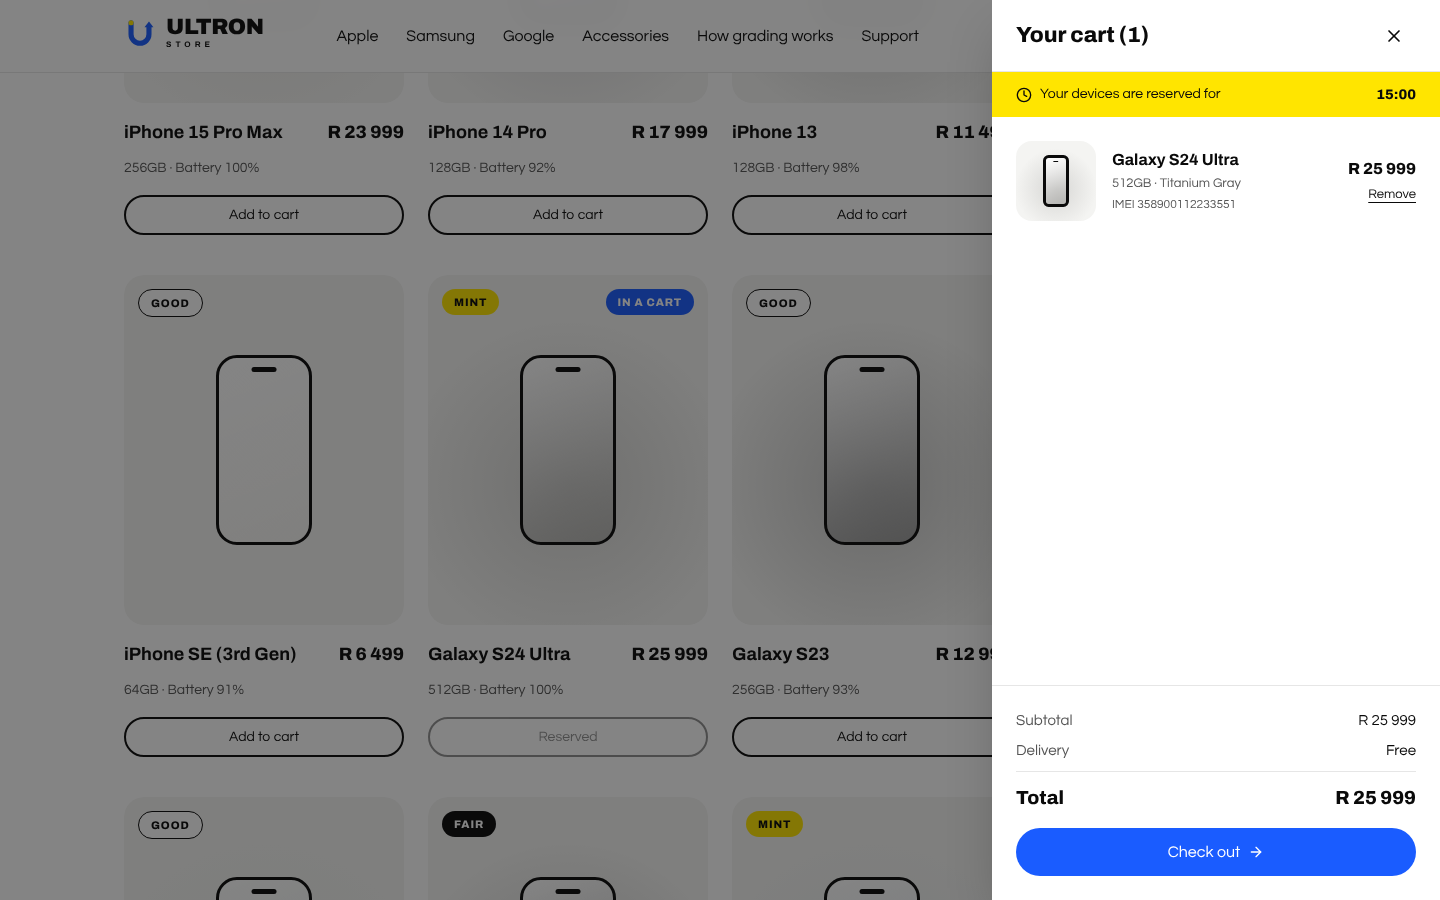
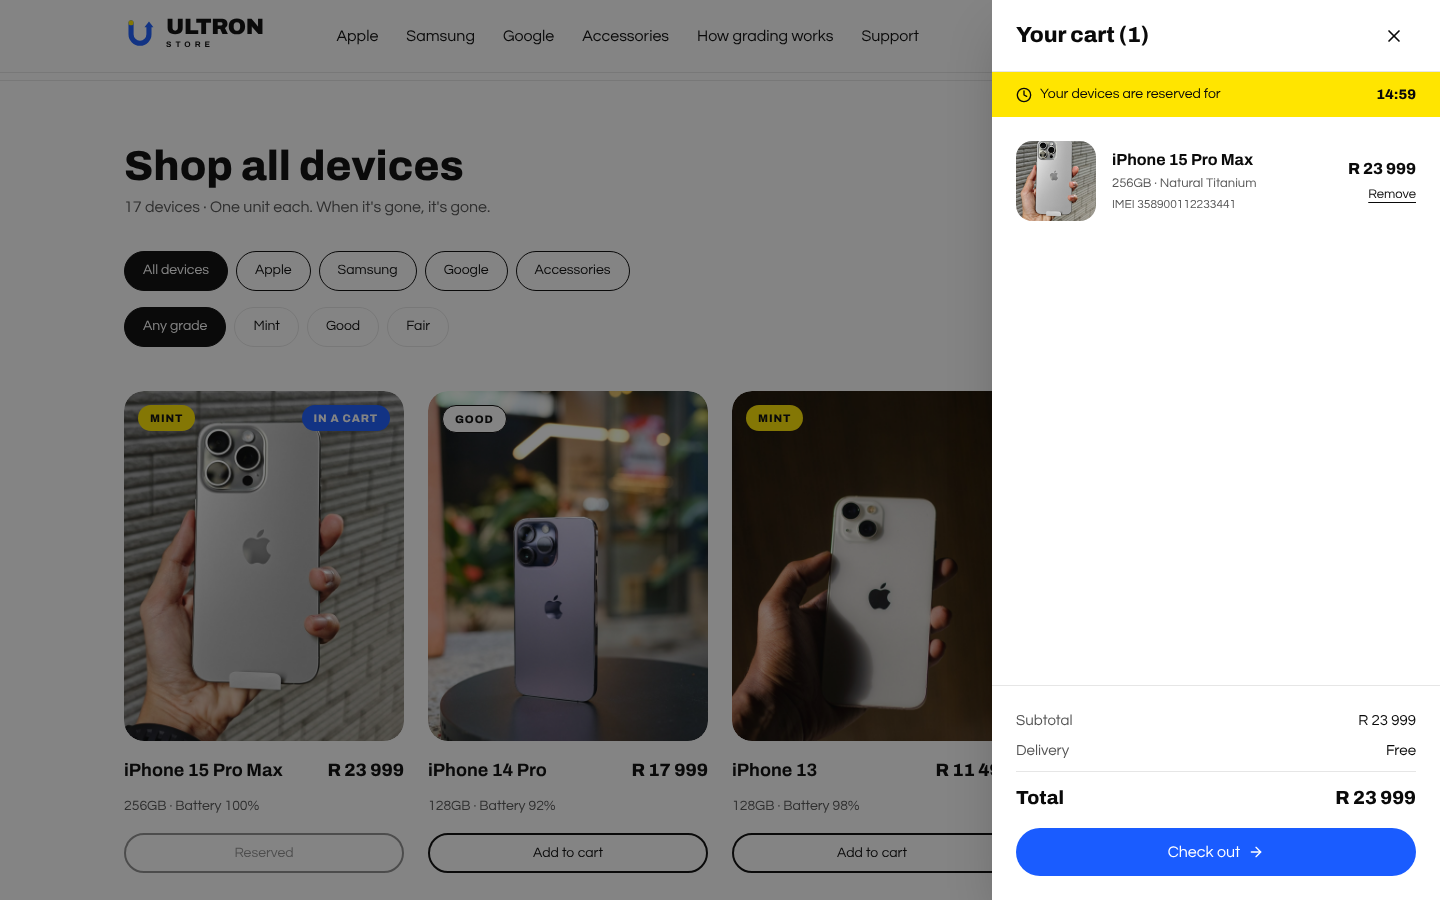
Add real product photos for all 17 catalogue devices
Stock photos of each model, cropped to 1200x1500 (4:5): 16 from Unsplash
(Unsplash License) and the iPhone SE from Flickr (CC BY 2.0). Sources and
licences are in frontend/public/products/CREDITS.md.

ProductImage now fills its frame with object-cover, the hero photo is
square so the phone isn't cut off, and the product page caption no longer
claims the photo is the exact unit. README screenshots refreshed.

Claude-Session: https://claude.ai/code/session_01Kf4iu9fyBzkdyYXkMcwkMD

diff --git a/frontend/src/components/home/HomeSections.tsx b/frontend/src/components/home/HomeSections.tsx
@@ -35,7 +35,8 @@ export const Hero: React.FC<{ featured?: StoreProduct; onView: (p: StoreProduct)
         >
           <ProductImage
             product={featured}
-            className="aspect-[5/4] sm:aspect-[4/3] rounded-[var(--radius-panel)]"
+            className="aspect-square rounded-[var(--radius-panel)]"
+            imgClassName="w-full h-full object-cover object-[50%_35%]"
             placeholderSize="w-[26%] max-w-[150px]"
           />
           <div className="absolute left-4 right-4 bottom-4 sm:left-auto sm:bottom-auto sm:right-6 sm:top-6 bg-white border-2 border-ink rounded-[18px] px-5 py-4 flex flex-col gap-1 shadow-[6px_6px_0_#0a0a0a] transition-transform group-hover:-translate-y-0.5">
@@ -114,7 +115,7 @@ export const GradeGuide: React.FC<{ onPick: (grade: StoreProduct['conditionGrade
 
 const REASONS = [
   { icon: BadgeCheck, title: 'IMEI checked', text: 'Every serial is checked against loss, theft and finance-lock registries before it is listed.' },
-  { icon: Fingerprint, title: 'One unit, one listing', text: 'Each device is tracked by serial and IMEI, so the photos and grade are for that exact unit.' },
+  { icon: Fingerprint, title: 'One unit, one listing', text: 'Each device is tracked by serial and IMEI, so the grade and battery report are for that exact unit.' },
   { icon: BatteryCharging, title: 'Battery health shown', text: 'Real battery health and cycle count on every listing.' },
   { icon: ShieldCheck, title: 'Up to 12-month warranty', text: 'Cover on every certified device.' },
   { icon: RotateCcw, title: '7-day returns', text: 'Not right? Send it back within 7 days.' },

diff --git a/frontend/src/components/ProductPDP.tsx b/frontend/src/components/ProductPDP.tsx
@@ -84,7 +84,7 @@ export const ProductPDP: React.FC<ProductPDPProps> = ({ product, onClose, onAddT
             <ProductImage product={product} className="aspect-square rounded-[var(--radius-panel)]" placeholderSize="w-[26%] max-w-[160px]" />
             <span className={`badge absolute left-5 top-5 ${grade.badge}`}>{grade.label}</span>
           </div>
-          <p className="mt-3 text-[13px] text-muted text-center">Photos show this exact unit as inspected, not a stock image.</p>
+          <p className="mt-3 text-[13px] text-muted text-center">Photo shows this model. Grade, battery and checks above are for this exact unit.</p>
         </div>
 
         <div className="flex flex-col gap-8">

diff --git a/frontend/src/components/ProductImage.tsx b/frontend/src/components/ProductImage.tsx
@@ -11,14 +11,14 @@ interface ProductImageProps {
 }
 
 /**
- * Shows the product photo, or a tidy tinted placeholder when the photo is missing
- * (the catalogue photos in public/products are not committed yet).
+ * Shows the product photo, cropped to fill its frame, or a tinted phone outline
+ * when the photo is missing or fails to load.
  */
 export const ProductImage: React.FC<ProductImageProps> = ({
   product,
   placeholderSize = 'w-[34%] max-w-[120px]',
   className = '',
-  imgClassName = 'w-[78%] h-[78%] object-contain',
+  imgClassName = 'w-full h-full object-cover',
   src,
 }) => {
   const [failed, setFailed] = useState(false);

diff --git a/frontend/public/products/CREDITS.md b/frontend/public/products/CREDITS.md
@@ -1,0 +1,27 @@
+# Product photo credits
+
+These are stock photos of each model, not photos of the exact unit for sale. Replace a file with a photo of the real unit when it's listed, keeping the same filename.
+
+All photos were cropped to 1200 x 1500 (4:5).
+
+| File | Source | Licence |
+|---|---|---|
+| `iphone-15-pro.jpg` | [Unsplash](https://unsplash.com/photos/a-person-holding-an-iphone-in-front-of-a-brick-wall-AtYWWis5ZDM) | Unsplash License |
+| `iphone-14-pro.jpg` | [Unsplash](https://unsplash.com/photos/a-close-up-of-a-cell-phone-on-a-table-PAUpwa_llTE) | Unsplash License |
+| `iphone-13.jpg` | [Unsplash](https://unsplash.com/photos/a-person-holding-an-iphone-in-their-hand-bS54zKd-4zQ) | Unsplash License |
+| `iphone-12.jpg` | [Unsplash](https://unsplash.com/photos/a-white-cell-phone-YDXe4h5vTdA) | Unsplash License |
+| `iphone-se.jpg` | ["Some Rumors About iPhone SE 2" by chetlandrum on Flickr](https://www.flickr.com/photos/185260119@N06/48979724096) | [CC BY 2.0](https://creativecommons.org/licenses/by/2.0/), cropped and padded |
+| `galaxy-s24-ultra.jpg` | [Unsplash](https://unsplash.com/photos/a-person-holding-a-silver-cell-phone-in-their-hand-aVsbUg8UPvg) | Unsplash License |
+| `galaxy-s23.jpg` | [Unsplash](https://unsplash.com/photos/a-white-cell-phone-sitting-on-top-of-a-table-Eda49vVHnp0) | Unsplash License |
+| `galaxy-z-fold-5.jpg` | [Unsplash](https://unsplash.com/photos/a-cell-phone-sitting-on-top-of-a-table-next-to-a-lamp-y0xA9Rv6oow) | Unsplash License |
+| `galaxy-z-flip-5.jpg` | [Unsplash](https://unsplash.com/photos/a-cell-phone-sitting-on-top-of-a-table-next-to-a-potted-plant-jJAFznI3MG0) | Unsplash License |
+| `galaxy-a54.jpg` | [Unsplash](https://unsplash.com/photos/a-white-cell-phone-_dFR9Of4R0Y) | Unsplash License |
+| `pixel-8-pro.jpg` | [Unsplash](https://unsplash.com/photos/a-close-up-of-a-cell-phone-on-a-black-surface-PJt3gKDVuTU) | Unsplash License |
+| `pixel-7a.jpg` | [Unsplash](https://unsplash.com/photos/a-close-up-of-a-cell-phone-near-a-box-y-rPBu9LEH8) | Unsplash License |
+| `pixel-7.jpg` | [Unsplash](https://unsplash.com/photos/a-hand-holding-a-white-cell-phone-4M44Gs4dLgs) | Unsplash License |
+| `pixel-6-pro.jpg` | [Unsplash](https://unsplash.com/photos/a-white-cell-phone-sitting-on-top-of-a-table-PE97QBw-LHc) | Unsplash License |
+| `pixel-fold.jpg` | [Unsplash](https://unsplash.com/photos/a-modern-folding-smartphone-with-a-white-screen-2SKjzvJfbKI) | Unsplash License |
+| `apple-watch-9.jpg` | [Unsplash](https://unsplash.com/photos/space-gray-apple-watch-with-black-sports-band-hbTKIbuMmBI) | Unsplash License |
+| `airpods-pro.jpg` | [Unsplash](https://unsplash.com/photos/white-apple-earpods-in-white-case-r8rYXthJOZw) | Unsplash License |
+
+The [Unsplash License](https://unsplash.com/license) allows free commercial use without attribution, but we credit the source anyway. The CC BY 2.0 photo requires the credit above.

diff --git a/README.md b/README.md
@@ -58,7 +58,7 @@ The repository holds the whole stack:
 | **Type** | Archivo (headings, 700 to 900) and Questrial (body), from Google Fonts. |
 | **Tokens** | Defined in `frontend/src/index.css` as Tailwind v4 `@theme` values, with shared `.btn`, `.chip`, `.badge` and `.field` styles. |
 
-Product photos go in `frontend/public/products/`, named to match `imageUrl` in the catalogue. Until a photo exists, the store shows a neutral phone outline.
+Product photos live in `frontend/public/products/`, named to match `imageUrl` in the catalogue. The demo catalogue uses stock photos of each model (sources and licences in [`CREDITS.md`](frontend/public/products/CREDITS.md)); swap in photos of the real unit when it's listed. If a photo is missing, the store shows a neutral phone outline.
 
 ---
 

diff --git a/frontend/public/products/README.md b/frontend/public/products/README.md
@@ -1,1 +1,3 @@
-Place your Pexels/Pixabay images here and rename them to match the filenames in storeProducts.ts
+Product photos for the demo catalogue. Each file is named to match `imageUrl` in `frontend/src/data/storeProducts.ts`.
+
+Use 1200 x 1500 (4:5) JPEGs under 400 KB. The storefront crops them to fill the card, so keep the device near the centre. Sources and licences are in [CREDITS.md](CREDITS.md).
